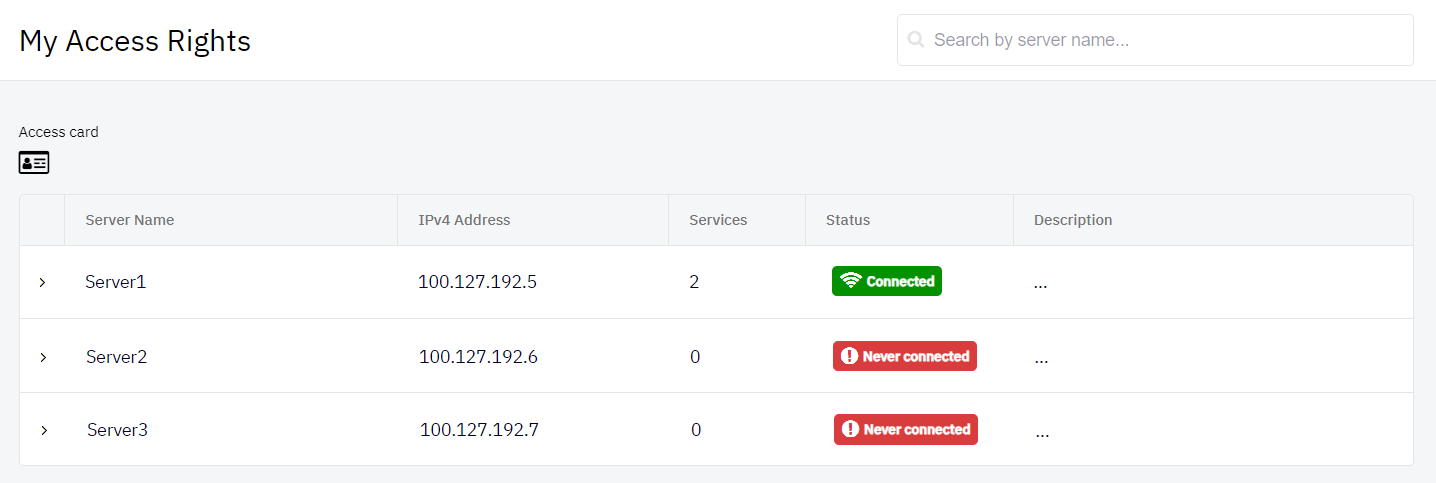
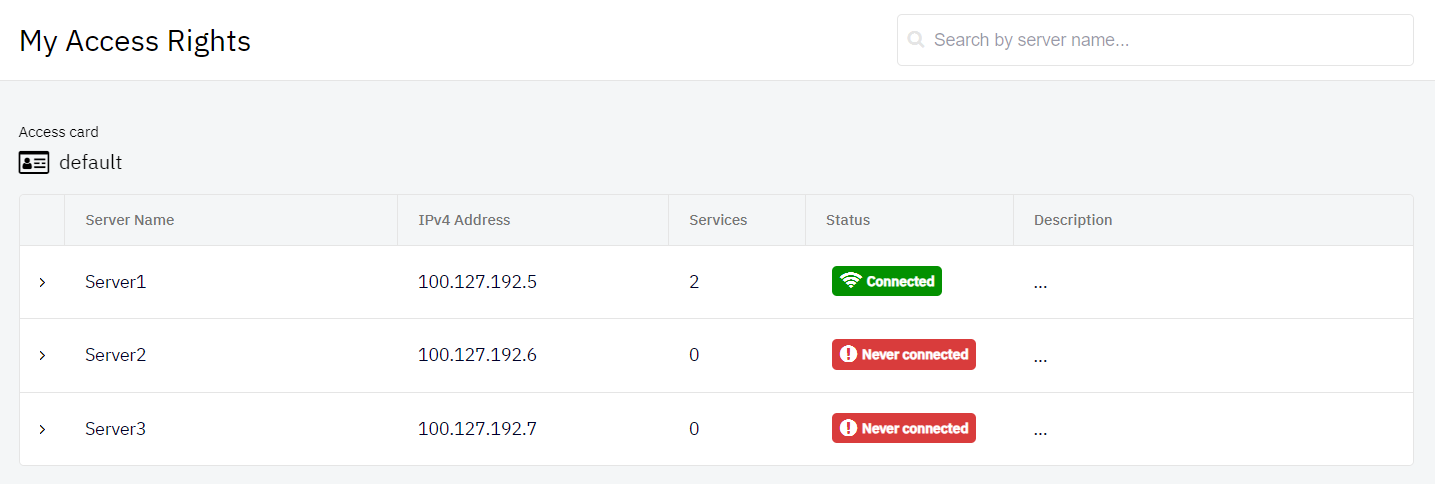
Update docs 6 (#20)
* Edit chapter Users

* Fix images (new icons)

* Upgride chapter Users and Servers

* Upgride chapter Servers

* Fix chapter Servers

* Fix chapters Users and Servers

* Fix chapters Users and Servers 2

* Fix punch back notes

* Fix websocket gateway notes

* Fix chapter Servers

* Fix chapter Users

* Update chapter Servers

---------

diff --git a/docs/pages/2_admin/03_servers.md b/docs/pages/2_admin/03_servers.md
@@ -11,82 +11,185 @@ Servers in a Shieldoo Secure Network are devices to which users or other servers
 
 {% include img.html src="../../images/Servers01.png" alt="Servers" %}
 
-## Installing Servers
+## Create & Install Servers
 {: .d-inline-block }
 [__ADMIN__](/admin_getting_started/#administration-modes){: style="color: white; text-decoration: none;"}
 {: .label .label-purple }
+{: .d-inline-block }
+[__ADMIN \| EXPERT__](/admin_getting_started/#administration-modes){: style="color: white; text-decoration: none;"}
+{: .label .label-green }
 
-The following steps describe how to install a server in your Shieldoo Secure Network:
+The following steps describe how to install a server in your Shieldoo Secure Network: 
 1. Go to the machine you want to install the server.
 2. Log in to your organization's Shieldoo Secure Network web application.
-3. Create a placeholder for the server in your network:
-   1. Go to the __Network__ \| __Servers__ section.
-   2. Click on the __Create__ button to open the Create Server dialog.
-   3. Configure the basic server settings:  
-       - __Name__ - Give the server a descriptive name.
-       - __Note__ - Describe the server's purpose.
-       - __Automatic update__ - Enables automatic server-side application updates to the latest version.
-   4. Click the __Create__ button again to open the installation instructions.
-4. Follow the installation instructions to install the server-side Shieldoo Secure Network application on the machine.
-5. Learn how to connect to the prepared server in the [Connect Me](/connect_me/) chapter.
+3. Go to the __Network__ \| __Servers__ section.
+4. Click on the __Create__ button to open the Create Server dialog.
+5. Configure the basic server settings:
+   - __Name__ - Give the server a descriptive name.
+   - __Note__ - Describe the server's purpose.
+   - __Automatic Shieldoo update__ - Enables automatic Shieldoo server-side application updates to the latest version.
+6. Click the __Create__ button again to open the installation instructions.
+7. Follow the installation instructions __to install__ the server-side Shieldoo Secure Network application on the machine.
+8. Learn how to connect to the prepared server in the [Connect Me](/connect_me/) chapter.
 
 {: .warning }
 > - The configuration data (provided by the installation instructions) contains the __secret key__ to your server. Do not share it with anyone to prevent unauthorized users from exploiting it.
 > - By default, each server __allows any inbound and outbound traffic.__ You can configure a firewall to restrict access to the services running on the given server. Learn how to do that in the [Access Management](/access_management/) chapter.
 
 {: .note }
-> The icons in the list of servers provide visual information about the current server status:
->- ![](../../images/Servers02.png)
-_The server was never connected to the network, and other enabled nodes (users and servers) can not connect to this server. The server may not have been installed yet._
->- ![](../../images/Servers03.png)
-_The server is connected to the network in Peer-to-Peer mode or Relay mode, and other enabled nodes (users and servers) can connect to this server._
->- ![](../../images/Servers04.png)
-_The server is connected to the network in Websocket mode, and other enabled nodes (users and servers) can connect to this server._
->- ![](../../images/Servers05.png)
-_The server is not connected to the network, and other enabled nodes (users and servers) can not connect to this server. The server will need to be turned on, woken up or restarted._
->- ![](../../images/Servers06.png)
-_The server is not connected to the network, and other enabled nodes (users and servers) can not connect to this server because of a network connection problem._
+>If you create and install the server in Admin \| Expert mode, you can also configure and use the following features:
+>- __Automatic OS updates__ - For more information, see [below](/servers/#automatic-os-updates).
+>- __Access Rights__ - For more information, see [below](/servers/#access-rights).
+>- __Attached Services__ - For more information, see [below](/servers/#attached-services).
 
 ## Editing Servers
 {: .d-inline-block }
 [__ADMIN__](/admin_getting_started/#administration-modes){: style="color: white; text-decoration: none;"}
 {: .label .label-purple }
+{: .d-inline-block }
+[__ADMIN \| EXPERT__](/admin_getting_started/#administration-modes){: style="color: white; text-decoration: none;"}
+{: .label .label-green }
 
-This section describes how to edit a server's configuration after it has been created:
-1. Open the context menu of the server whose configuration you want to edit:
+This section describes how to edit a server's configuration after it has been created.
 
-   {% include img.html src="../../images/Servers07.gif" alt="Editing Servers" %}
+1. Go to the __Network__ \| __Servers__ section.
+2. Open the context menu of the server whose configuration you want to edit:
 
-2. Use the provided options to edit the server:  
-   - __Detail__ - Open the installation instructions you used to install the server.
+   {% include img.html src="../../images/Servers02.gif" alt="Editing Servers" %}
+
+3. Use the provided options to edit the server:  
+   - __Detail__ - Open the current information about the server and the installation instructions you used to install the server.
    - __Edit__ - Open the server's configuration, which you can edit.
-   - __Delete__ - Deletes the server from your Shieldoo Secure Network.  
-   No users or other servers will be able to connect to it.
+   - __Delete__ - Deletes the server from your Shieldoo Secure Network. No users or other servers will be able to connect to it and its configuration will be forever lost.
+
+## Status Servers
+{: .d-inline-block }
+[__ADMIN__](/admin_getting_started/#administration-modes){: style="color: white; text-decoration: none;"}
+{: .label .label-purple }
+{: .d-inline-block }
+[__ADMIN \| EXPERT__](/admin_getting_started/#administration-modes){: style="color: white; text-decoration: none;"}
+{: .label .label-green }
+
+<!-->
+ADD TYPE OF CONNECTIONS: PEER-TO-PEER, RELAY, WEBSOCKET
+- Diagram image
+- Explanation
+- Troubleshooting
+<-->
+
+The icons in the list of servers in the __Network__ \| __Servers__ section provide visual information about the current server status:
+- ![](../../images/Servers03.png)
+The server has never been connected to the network, and other enabled nodes (users and servers) cannot connect to this server. The server may not have been installed yet.
+- ![](../../images/Servers04.png)
+The server is connected to the network in Peer-to-Peer mode or Relay mode, and other enabled nodes (users and servers) can connect to this server.
+- ![](../../images/Servers05.png)
+The server is connected to the network in Websocket mode, and other enabled nodes (users and servers) can connect to this server.
+- ![](../../images/Servers06.png)
+The server is not connected to the network, and other enabled nodes (users and servers) can not connect to this server because of a network connection problem.
+- ![](../../images/Servers07.png)
+The server is not connected to the network, and other enabled nodes (users and servers) can not connect to this server. The server will need to be turned on, woken up or restarted.
+
+The current status for a specific server is also displayed in greater detail in the Server Detail section:
+
+{% include img.html src="../../images/Servers13.png" alt="Status Servers" %}
+
+1. Go to the __Network__ \| __Servers__ section.
+2. Open the context menu of the server whose configuration you want to edit.
+3. Click on __Detail__ to open the current information about the specific server.
+
+## Automatic OS updates
+{: .d-inline-block }
+[__ADMIN \| EXPERT__](/admin_getting_started/#administration-modes){: style="color: white; text-decoration: none;"}
+{: .label .label-green }
+
+This section describes how to use Automatic OS updates of the servers.
+
+Shieldoo Secure Network supports automatic OS updates, bringing simplified management to your IT infrastructure. With the introduction of this functionality, administrators can now manage servers more efficiently.
+
+With Shieldoo Secure Network, administrators can __monitor the status of updates for all supported OS, i.e. Windows, Linux and MacOS__. 
+
+{% include img.html src="../../images/Servers11.png" alt="Automatic OS updates" %}
+
+Additionally, administrators can __apply OS and security updates for Linux OS__, simplifying their daily operations and increasing overall efficiency.
+
+{% include img.html src="../../images/Servers12.png" alt="Automatic OS updates for Linux" %}
+
+### Configuring Automatic OS updates
+1. Enable __Expert Mode__.
+   - See the [Access Management](/access_management/) chapter to learn how to enable Expert Mode.
+2. Go to the __Network__ \| __Servers__ section.
+3. Open the context menu of the server whose configuration you want to edit.
+4. Click on __Edit__ to open the server's settings.
+5. Go to the __General__ tab.
+6. Configure the Automatic OS update settings:
+   - __Automatic OS update__ (Windows, Linux, MacOs) - Enables automatic updates on the OS level. This option will start collecting data about updates. This means that you must apply update yourself.
+   - __Apply security OS updates__ (only Linux) - Enables automatic security updates on OS level (will be applied).
+   - __Apply all OS updates__ (only Linux) - Enables all automatic updates on OS level (will be applied).
+   - __Restart the machine when OS updates were applied__ (only Linux).
+   - __Select an hour in the day to apply updates__ (only Linux).
+
+### Status Automatic OS updates
+
+The icons in the list of servers in the __Network__ \| __Servers__ section provide visual information about the current status of the automatic OS updates:
+- ![](../../images/Servers14.png) - The server operating system is up to date.
+- ![](../../images/Servers15.png) - The server operating system needs updates (Security updates: 37).
+- ![](../../images/Servers16.png) - The server operating system needs updates (Other updates: 8).
+- ![](../../images/Servers17.png) - The update process failed with an error.
+
+The current status of automatic OS updates for a specific server is also displayed in greater detail in the Server Detail section:
+
+{% include img.html src="../../images/Servers13.png" alt="Status automatic OS updates" %}
+
+1. Go to the __Network__ \| __Servers__ section.
+2. Open the context menu of the server whose configuration you want to edit.
+3. Click on __Detail__ to open the current information about the specific server.
+
+## Access Rights
+{: .d-inline-block }
+[__ADMIN \| EXPERT__](/admin_getting_started/#administration-modes){: style="color: white; text-decoration: none;"}
+{: .label .label-green }
+This section describes how to configure and manage the Access Rights of the servers. For more information, see the [Access Management](/access_management/) chapter.
+
+ {% include img.html src="../../images/Servers08.png" alt="Access Rights of the server" %}
+
+### Configuring Access Rights
+The following steps describe how to configure Access Rights of the servers:
+1. Enable __Expert Mode__.
+   - See the [Access Management](/access_management/) chapter to learn how to enable Expert Mode.
+2. Go to the __Network__ \| __Servers__ section.
+3. Open the context menu of the server whose configuration you want to edit.
+4. Click on __Edit__ to open the server's settings.
+5. Go to the __Access Rights__ tab.
+6. Configure the access right settings:
+   - __IP Address__ - Skip this setting unless the IP address of the given server has changed since you created it.
+   - __Firewall configuration__ - Select one of the prepared firewalls.
+   - __Groups__ - Map the server with all the desired groups.
+   - __Valid Till__ - Define how long the access right will remain valid:
+     - _Subscription lifetime_ - Defines that the access right will remain valid if your organisation subscribes to Shieldoo Secure Network.
+     - _Custom expiration date_ - Defines a custom expiration using the provided date picker.
+8. Click the __Save__ button to confirm the access right creation.
 
 ## Attached Services
 {: .d-inline-block }
 [__ADMIN \| EXPERT__](/admin_getting_started/#administration-modes){: style="color: white; text-decoration: none;"}
 {: .label .label-green }
+This section describes how to use the Attached Services of the servers.
 
-Attached Services are located on devices that run on the local network of a server, but where Shieldoo cannot be installed (e.g. a printer). Shieldoo lets you directly connect to such services (a device port is mapped to a server port).
+Attached Services are located on devices that run on the local network of a server but where Shieldoo cannot be installed (e.g. a printer). Shieldoo lets you directly connect to such services (a device port is mapped to a server port).
 
-{% include img.html src="../../images/Servers08.png" alt="Attached Services" %}
+{% include img.html src="../../images/Servers09.png" alt="Attached Services" %}
 
 ### Configuring Attached Services
 The following steps describe how to configure a connection to an attached service:
-1. Log in to your organization's Shieldoo Secure Network web application.
-2. Enable __Expert Mode__.
+1. Enable __Expert Mode__.
    - See the [Access Management](/access_management/) chapter to learn how to enable Expert Mode.
-3. Go to the __Network__ \| __Servers__ section.
-4. Open the server's context menu whose local network runs the service you want to connect to.
-
-   {% include img.html src="../../images/Servers09.gif" alt="Configuring Attached Services" %}
-
-5. Click on __Edit__ to open the server's settings.
-6. Go to the __Attached Services__ tab.
-7. Click on the __Create__ button to open the _Create Attached Service_ dialog.
-8. Configure the attached service settings:
-   - __Type__ - Select what type of attached service you are configuring: _Server_, _Printer_, _NAS_, or _Other_.  
+2. Go to the __Network__ \| __Servers__ section.
+3. Open the context menu of the server whose configuration you want to edit.
+4. Click on __Edit__ to open the server's settings.
+5. Go to the __Attached Services__ tab.
+6. Click on the __Create__ button to open the _Create Attached Service_ dialog.
+7. Configure the attached service settings:
+   - __Type__ - Select the attached service you are configuring: _Server_, _Printer_, _NAS_, or _Other_.  
    The __Attached Services__ tab will display the corresponding icon to indicate the type of each configured service.  
    ![](../../images/Servers10.png)
    - __Listen port__ - Define the port you want the service to run within the Shieldoo network.
@@ -95,8 +198,8 @@ The following steps describe how to configure a connection to an attached servic
    Shieldoo will map this port to the port defined by the __Listen port__ setting.
    - __Forward host__ - Define the IP address or hostname of the service you want to connect to.
    - __Description__ - Describe the attached service's purpose.
-9. Click on the __Save__ button to create the connection to the configured attached service.
-10. Learn how to connect to the prepared attached service in the [Connect Me](/connect_me/) chapter.
+8. Click on the __Save__ button to create the connection to the configured attached service.
+9. Learn how to connect to the prepared attached service in the [Connect Me](/connect_me/) chapter.
 
 For a specific example of connecting to an attached service, see the [Sharing a Printer](/examples/#sharing-a-printer) section.
 

diff --git a/docs/pages/2_admin/02_users.md b/docs/pages/2_admin/02_users.md
@@ -15,21 +15,23 @@ Users in a Shieldoo Secure Network are clients that can connect to servers.
 {: .d-inline-block }
 [__ADMIN__](/admin_getting_started/#administration-modes){: style="color: white; text-decoration: none;"}
 {: .label .label-purple }
+{: .d-inline-block }
+[__ADMIN \| EXPERT__](/admin_getting_started/#administration-modes){: style="color: white; text-decoration: none;"}
+{: .label .label-green }
 The following steps describe how to invite users to your Shieldoo network:
 1. Log in to your organization's Shieldoo Secure Network web application.
 2. Go to the __Network__ \| __Users__ section.
 3. Click on the __Invite Users__ button to open the Invite Users dialog.
-4. Configure the user invitation settings:  
+4. Configure the user invitation settings: 
     - __Email__ -  Enter the user's email address you want to invite.
     - __Admin__ - Define whether or not to give the given user network administrator rights.
     - __Note__ - Describe the user. For example, their role in your organization.
-5. Repeat steps 3-4 until you have configured all the users you want to invite.
+5. Click the __Invite__ button to invite users.
 6. Check that the given users have been added to the list of users in your network.
 7. Monitor the __INVITED__ label to find out whether or not the given users have accepted the invitation:  
     - Label displayed - Invitation still needs to be accepted.
     - Label not displayed - Invitation accepted.
 8. Let the users know they can [connect to your organization's network](/connect_me/) as soon as they accept the invitation.
-9. Continue by [securing your users](/users/#securing-users).
 
 {: .tip }
 > - Use the __Invited__ button to only display users who have yet to accept their invitations.  
@@ -37,12 +39,21 @@ The following steps describe how to invite users to your Shieldoo network:
 > - Use the provided search field for specific users by name or email address.  
 > ![](../../images/Users03.png)
 
+{: .note }
+>If you invite the users in Admin | Expert mode:
+>- You can use the _Single user_ or _Multiple users_ option.
+>- You have to select a specific Available template card. For more information, see [Access Card Templates](/access_management/#access-card-templates). 
+
 ## Editing Users
 {: .d-inline-block }
 [__ADMIN__](/admin_getting_started/#administration-modes){: style="color: white; text-decoration: none;"}
 {: .label .label-purple }
-This section describes how to edit a user's configuration after they have been invited:
-1. Open the context menu of the user whose configuration you want to edit:  
+{: .d-inline-block }
+[__ADMIN \| EXPERT__](/admin_getting_started/#administration-modes){: style="color: white; text-decoration: none;"}
+{: .label .label-green }
+This section describes how to edit a user's configuration after they have been invited.
+1. Go to the __Network__ \| __Users__ section.
+2. Open the context menu of the user whose configuration you want to edit:  
 
     {% include img.html src="../../images/Users04.gif" alt="Editing Users" %}
 
@@ -52,6 +63,26 @@ This section describes how to edit a user's configuration after they have been i
    - __Revoke admin rights__ - Removes the network administrator rights from the given user.
    - __Delete__ - Deletes the user from your Shieldoo Secure Network.  
    The user will no longer be able to connect to the network.
+
+
+## Detail Users
+{: .d-inline-block }
+[__ADMIN \| EXPERT__](/admin_getting_started/#administration-modes){: style="color: white; text-decoration: none;"}
+{: .label .label-green }
+
+This section describes how to view user’s details that can be used to edit the user and manage user access control. For more information about Access Control, see the [Access Management](/access_management/) chapter.
+
+{% include img.html src="../../images/Users05.png" alt="Detail User" %}
+
+The following steps describe how to view a user's details:
+1. Enable __Expert Mode__.
+    - See the [Access Management](/access_management/) chapter to learn how to enable Expert Mode.
+2. Go to the __Network__ \| __Users__ section.
+3. Open the context menu of the user for whose detail you want to view.
+3. Click on the __Detail__ option.
+
+{: .tip }
+>Another option to view the user's details is to go to the __Network__ \| __Users__ section and click on the user name in the list of users.
 
 ## Securing Users
 {: .d-inline-block }

diff --git a/docs/pages/2_admin/04_access_management.md b/docs/pages/2_admin/04_access_management.md
@@ -139,12 +139,15 @@ The following steps describe how to create access cards for servers:
    - __IP Address__ - Skip this setting unless the IP address of the given server has changed since you created it.
    - __Firewall configuration__ - Select one of the prepared firewalls.
    - __Groups__ - Map the server with all the desired groups.
-   - __Punch back__ - Enable this check box if you want the node that you are trying to reach to connect back to your if your <a href="https://en.wikipedia.org/wiki/UDP_hole_punching" target="blank">UDP hole punching<a/> fails. This is useful if a node is behind, for example, a symmetric NAT.
-   - __Use websocket gateway__ - Check this check box if you want to use the Shieldoo websocket gateway to enforce the connection even from a site where, for example, UDP is not allowed.
    - __Valid Till__ - Define how long the access card will remain valid:
      - _Subscription lifetime_ - Defines that the access card will remain valid if your organisation subscribes to Shieldoo.
      - _Custom expiration date_ - Defines a custom expiration using the provided date picker.
 8. Click the __Save__ button to confirm the access card's creation.
+
+<!-->
+   - __Punch back__ - Enable this check box if you want the node that you are trying to reach to connect back to you when your <a href="https://en.wikipedia.org/wiki/UDP_hole_punching" target="blank">UDP hole punching<a/> fails. This is useful if a node is behind a symmetric NAT, for example.
+   - __Use websocket gateway__ - Check this check box if you want to use the Shieldoo websocket gateway to establish a connection even from a site with restricted network conditions where UDP is not allowed, for example.
+   <-->
 
 {% include img.html src="../../images/AccessManagement07.png" alt="ResourceServer: Access Rights" %}
 
